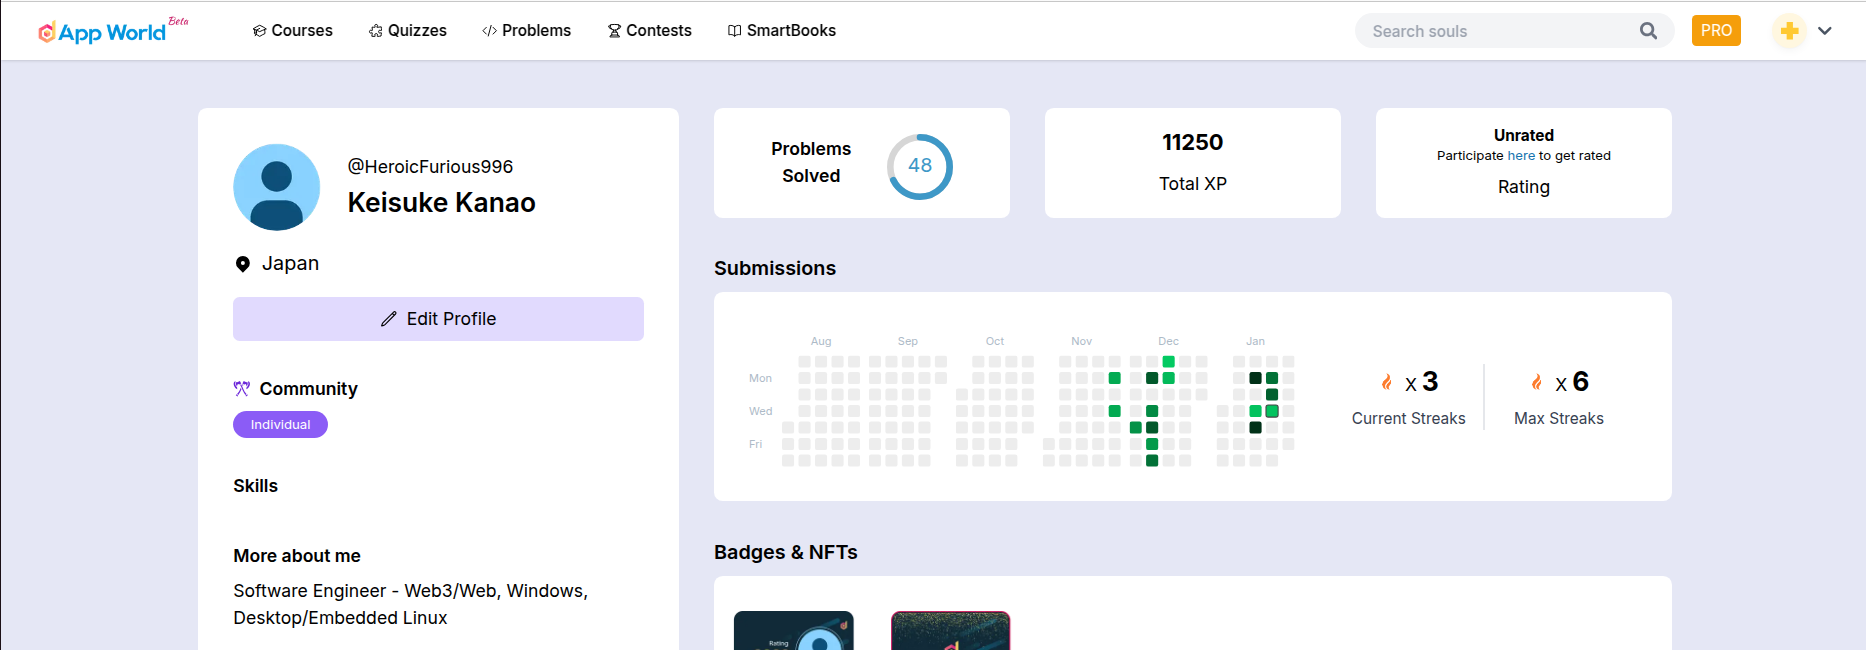
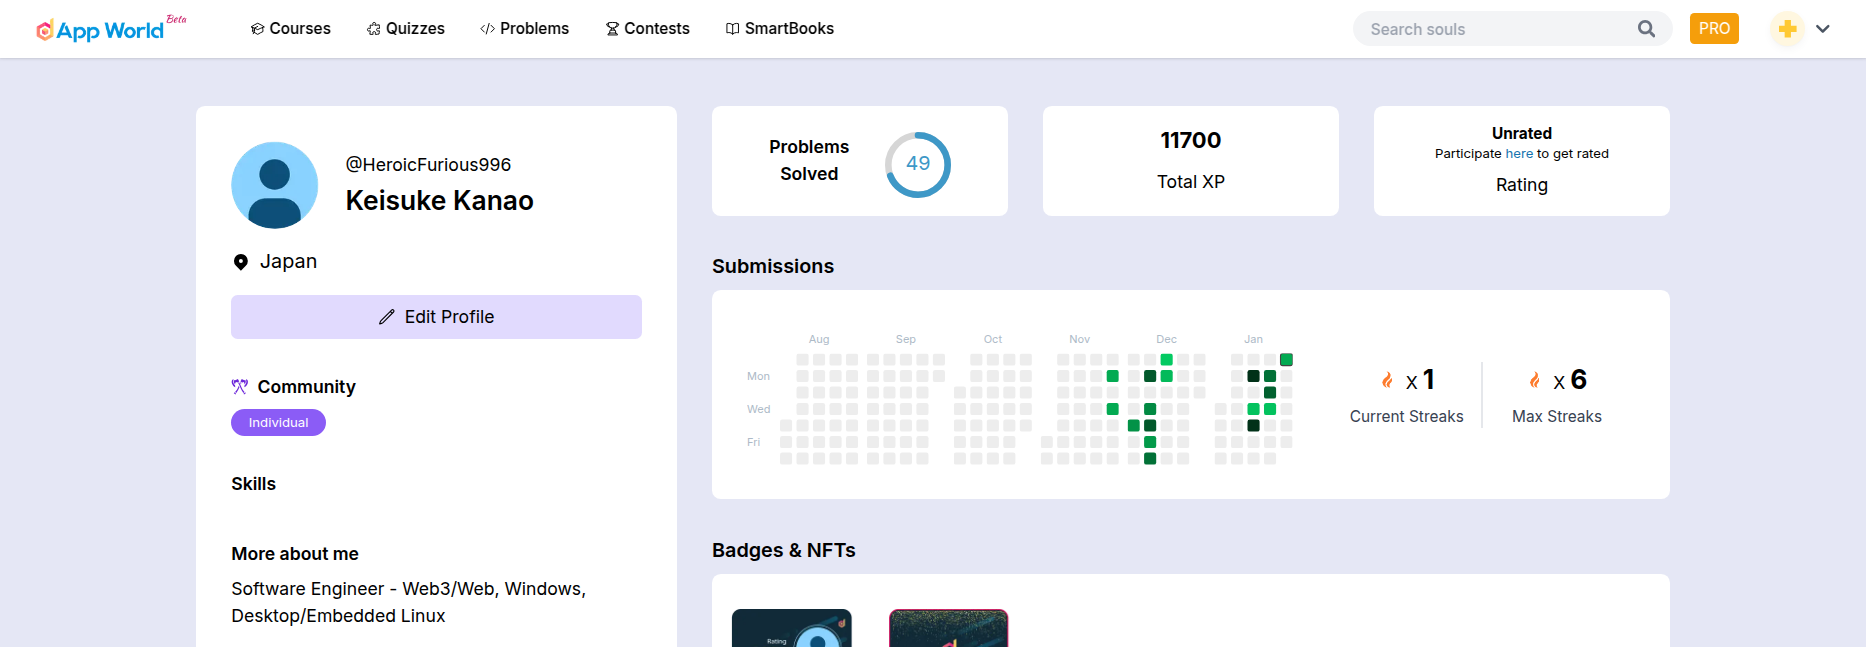
Update the progress state

diff --git a/README.md b/README.md
@@ -2,7 +2,7 @@
 I've been practicing Solidity programming by solving [problems from DApp World](https://dapp-world.com/problems).
 
 ## Number of solved problems  
-As of now (22 Jan 2025), I solved 49 out of 59 problems, however, the site shows 48 for unknown reasons. 
+As of now (26 Jan 2025), I solved 50 out of 59 problems, however, the site shows 49 for unknown reasons. 
   
 ![](./number-of-solved-problems.png)
 
@@ -60,4 +60,5 @@ Below is the list of solved problmes in chronological order.
 |[10.Crowdfunding - Hard](https://dapp-world.com/problem/crowdfunding/problem)|21 Jan 2025 13:35:34||
 |[47.Gavin and the bookstore](https://dapp-world.com/problem/gavin-and-bookstore-SggR/problem)|21 Jan 2025 15:36:41||
 |[16.Auction](https://dapp-world.com/problem/auction/problem)|22 Jan 2025 16:37:36||
+|[7.Yeild Farming](https://dapp-world.com/problem/yeild-farming/problem)|26 Jan 2025 10:32:02|At the time when my solution was passed, I was the only one who passed all test cases (and thus got the best score). |
 
